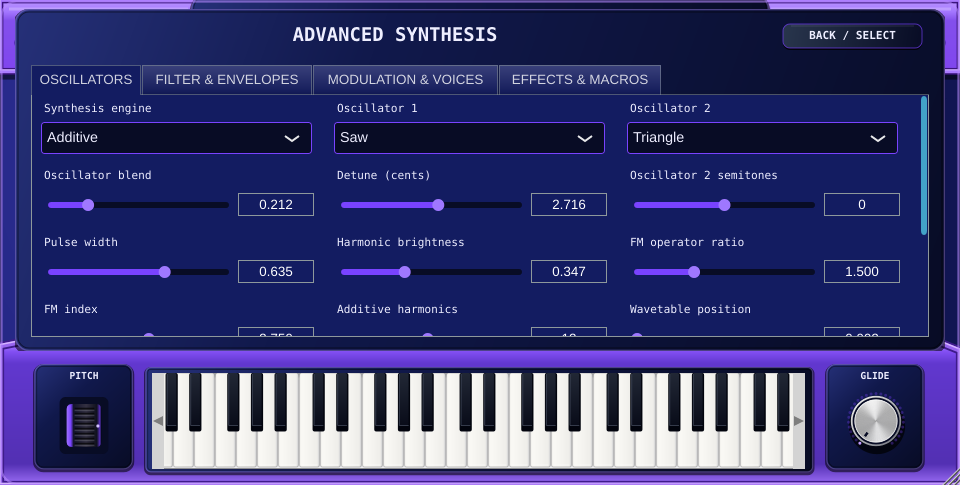
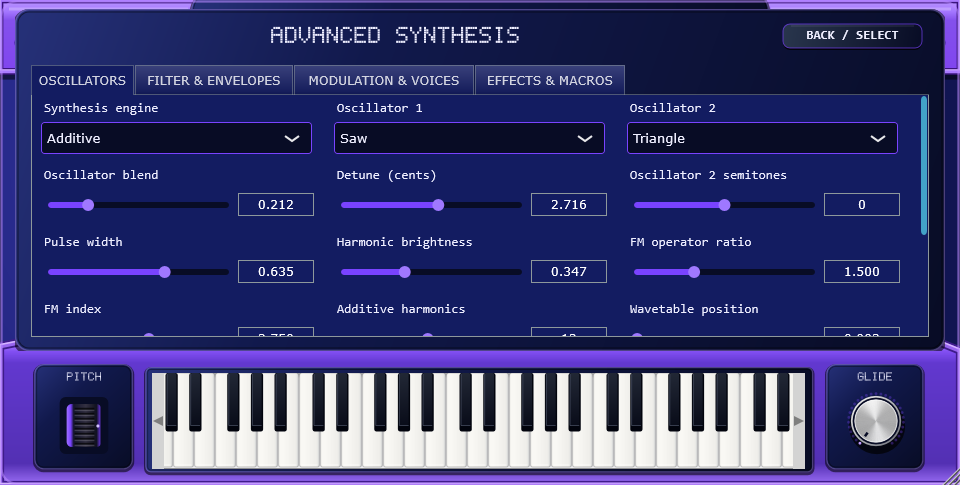
Record verified Phase 2 Windows UI build and final screenshots [skip ci]

diff --git a/README.md b/README.md
@@ -2,11 +2,11 @@
 
 A C++20 / JUCE 8 hybrid synthesis instrument targeting Windows x64 VST3 and standalone. The purple, wide console interface uses native scalable controls. All sound is generated mathematically: there is no sampler, sample import, commercial game audio, or network dependency at runtime.
 
-**Development build 0.2.0 — Phase 2 UI refinement.** The synthesis foundation already passed Windows builds and pluginval strictness 10 in version 0.1.1. This revision adds closer reference typography, inset casing details, a dotted master LED ring, shaped control hit areas, shaded playable keys and keyboard-focus fixes. The updated local JUCE integration suite passes 171 checks. Windows compilation, the additional native-window piano mouse test and pluginval are being rerun for this revision; see [Phase 2 progress](docs/PHASE_2.md) and [validation](docs/VALIDATION.md).
+**Development build 0.2.0 — Phase 2 UI implementation ready for visual/interactive acceptance.** The updated Windows x64 VST3 and standalone build successfully, 1,387 DSP checks and 174 JUCE integration checks pass on Windows, and the actual VST3 passes pluginval 1.0.4 at strictness 10. This revision adds closer reference typography, inset casing details, a dotted master LED ring, shaped control hit areas, shaded playable keys and keyboard-focus fixes. See [Phase 2 progress](docs/PHASE_2.md) and [validation](docs/VALIDATION.md).
 
 ![G Boy Advance 2 Phase 2 native JUCE editor](docs/images/phase2-main.png)
 
-Actual Phase 2 JUCE software render at 1280×646 from the Linux integration executable. All controls are native components with vector painting; no reference bitmap is used. Interactive Windows high-DPI and DAW testing remain pending.
+Actual Phase 2 Windows JUCE component render at 1280×646 from [passing CI run 39007537286](https://github.com/treezysosa/G-Boy-Advance-2/actions/runs/39007537286). All controls are native components with vector painting; no reference bitmap is used. Interactive Windows high-DPI and DAW testing remain pending.
 
 ## Build on Windows
 
@@ -18,7 +18,7 @@ cd G-Boy-Advance-2
 powershell -ExecutionPolicy Bypass -File scripts/build-windows.ps1
 ```
 
-You can also open [Build and validate in GitHub Actions](https://github.com/treezysosa/G-Boy-Advance-2/actions/workflows/build.yml), choose **Run workflow**, and download the Windows artifact after the job succeeds. The workflow and Windows script are included in the corrected source upload. Windows compilation, both test suites, pluginval at strictness 10, and packaging all pass in [run 39004957883](https://github.com/treezysosa/G-Boy-Advance-2/actions/runs/39004957883).
+You can also open [Build and validate in GitHub Actions](https://github.com/treezysosa/G-Boy-Advance-2/actions/workflows/build.yml), choose **Run workflow**, and download the Windows artifact after the job succeeds. The workflow and Windows script are included in the corrected source upload. Windows compilation, both test suites, pluginval at strictness 10, and packaging all pass for 0.2.0 in [run 39007537286](https://github.com/treezysosa/G-Boy-Advance-2/actions/runs/39007537286).
 
 The first local build downloads the pinned JUCE 8.0.6 source. For an offline build, supply an existing checkout:
 

diff --git a/docs/PHASE_2.md b/docs/PHASE_2.md
@@ -6,7 +6,7 @@ Development revision 0.2.0. This phase builds on the working VST3 foundation; it
 
 - Wide 1280×646 reference layout, resizing from approximately 960 to 1920 pixels without moving the selected piano octave.
 - Deep indigo main body, layered purple casing bevels, inset panels, moulded-plastic detail and rounded speaker slots. All artwork is generated with JUCE vector drawing.
-- Original heavy slanted G BOY lettering, smaller ADVANCE lettering, purple 2, compact VST subtitle and white pixel LCD text sized to the reference.
+- Original heavy slanted G BOY lettering, smaller ADVANCE lettering, purple 2, compact VST subtitle and white pixel LCD text sized to the reference. Front-panel captions and START/SELECT use original vector pixel lettering; text-heavy Windows panels select Consolas instead of the serif default monospace font.
 - Silver volume/macro/glide knobs, full dotted purple master LED ring, spring-return ridged pitch wheel and shaded black/white piano keys.
 - Native A/B buttons with circular hit areas, silver START/SELECT caps and visible keyboard-focus feedback.
 - Four separate accessible D-pad buttons; blank corners and the neutral centre do not select patches. Arrow keys select patches/categories on the main page.
@@ -22,14 +22,20 @@ Development revision 0.2.0. This phase builds on the working VST3 foundation; it
 
 ![Advanced editor at minimum size](images/phase2-advanced.png)
 
-These are software renders from the compiled Linux JUCE test executable, not generated mockups. The supplied reference image is not bundled or used as a background.
+These are actual component renders from the compiled Windows JUCE test executable, not generated mockups. The supplied reference image is not bundled or used as a background.
 
 ## Verification
 
 - Strict C++20 compilation against JUCE 8.0.6: PASS on Linux.
 - JUCE integration suite: 171 checks PASS on Linux.
 - Snapshot coverage: 960/1280/1920 logical widths, main at 125%/150%/200% render scales, browser and advanced editor at minimum size.
-- Windows x64 VST3/standalone rebuild, native-window mouse interaction and pluginval strictness 10: pending for this revision.
+- Windows x64 VST3/standalone build: PASS.
+- Windows integration suite: 174 checks PASS, including native-window C4 mouse-down/audio delivery/mouse-up.
+- Pluginval 1.0.4 strictness 10: SUCCESS.
+- Portable ZIP and installer compilation: PASS. Interactive installation remains pending.
+- [Windows CI run 39007537286](https://github.com/treezysosa/G-Boy-Advance-2/actions/runs/39007537286), source `5ed4948b2d182693f05a98d896cd92e59fd87f22`.
+
+The final typography revision passes all checks above. The implementation is ready for visual and interactive acceptance; the checks below remain open.
 
 ## Remaining visual acceptance
 

diff --git a/docs/VALIDATION.md b/docs/VALIDATION.md
@@ -72,7 +72,17 @@ The updated editor and tests compile with GCC C++20 and strict warnings. The Lin
 
 The mouse-event piano test requires a native window because JUCE's containment checks depend on a platform peer. It is compiled into Windows CI and intentionally excluded from the Linux runner, which has no display server. The pre-existing GUI MIDI-state/audio test still runs on Linux. Software snapshots do not establish behavior under Windows per-monitor DPI changes.
 
-Current screenshots in `docs/images/phase2-*.png` are actual Linux component renders and were visually inspected against the supplied reference. The current Windows build and pluginval validation are pending.
+[Windows run 39007537286](https://github.com/treezysosa/G-Boy-Advance-2/actions/runs/39007537286), source commit `5ed4948b2d182693f05a98d896cd92e59fd87f22`:
+
+- Visual Studio 2022 x64 VST3 and standalone compilation/linking: PASS.
+- DSP: 1,387 checks PASS (2.15 s).
+- JUCE integration: **174 checks PASS** (1.85 s), including the additional native-window mouse-down/note-on, audio-engine delivery and mouse-up/note-off checks for C4.
+- Pluginval 1.0.4, strictness 10: **SUCCESS**, seed `0x6076a20`. Steinberg's separate validator remains unconfigured/pending.
+- Portable ZIP and Inno Setup installer compilation: PASS.
[1 lines of base64/hex data omitted]
+- Seven UI snapshots are included under `build/ui-snapshots/`, with the 1920-wide main image at `build/GBA2-editor.png`. The documentation screenshots in `docs/images/phase2-*.png` are now the actual Windows renders and have been visually inspected.
+
+A synthetic mouse event delivered to a real native Windows peer is an automated interaction check; physical mouse/touch, screen-reader and per-monitor DPI acceptance remain manual. The final typography revision uses original vector front-panel labels and Consolas in the text-heavy Windows panels. All recorded checks and current screenshots correspond to this revision. The final documentation commit changes only evidence/screenshots; application code and build settings match the validated commit.
 
 ## Manual host acceptance matrix
 

diff --git a/docs/NEXT_STEPS.md b/docs/NEXT_STEPS.md
@@ -1,6 +1,6 @@
 # Exact next steps
 
-1. Phase 2 version 0.2.0 is implemented and its 171-check local JUCE suite passes. Finish the updated Windows CI build, native-window piano mouse test and pluginval run; the previous 0.1.1 foundation passed all Windows checks. See PHASE_2.md.
+1. Phase 2 version 0.2.0 is implemented: Windows VST3/standalone compilation, 1,387 DSP checks, 174 integration checks, native-window piano mouse events, pluginval strictness 10 and installer packaging pass in run 39007537286. Begin the visual/interactive acceptance below; see PHASE_2.md.
 2. Open the standalone interactively on Windows; compare against the supplied purple reference. Refine typeface, bevels, control hit areas, all resize limits, focus, screen readers, and high-DPI appearance. Actual Linux and Windows component renders have been captured and visually inspected; interactive Windows/host behavior and DPI scaling remain pending.
 3. Run the Steinberg VST3 validator; pluginval strictness 10 has passed and remains part of the Windows workflow. Test rapid host program changes, automation, concurrent project serialization, sysex rejection, transport stops, and stress lifecycle.
 4. Complete the DAW matrix in VALIDATION.md. Test sustain and overlapping same notes in all modes, preview while playing external MIDI, and automation during preset loads.
